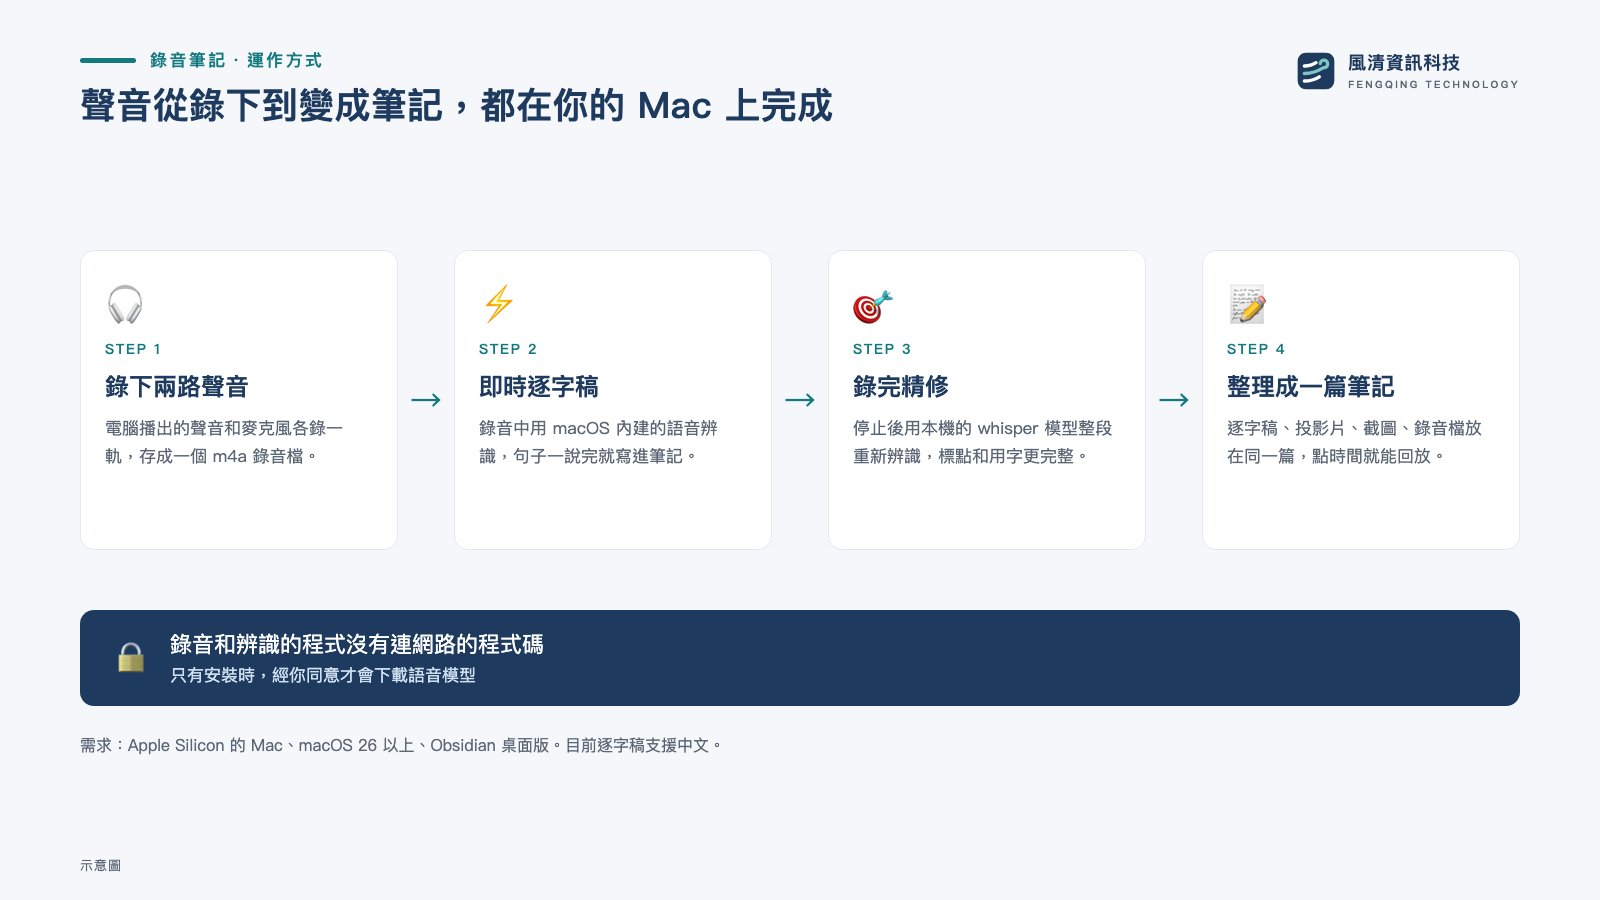
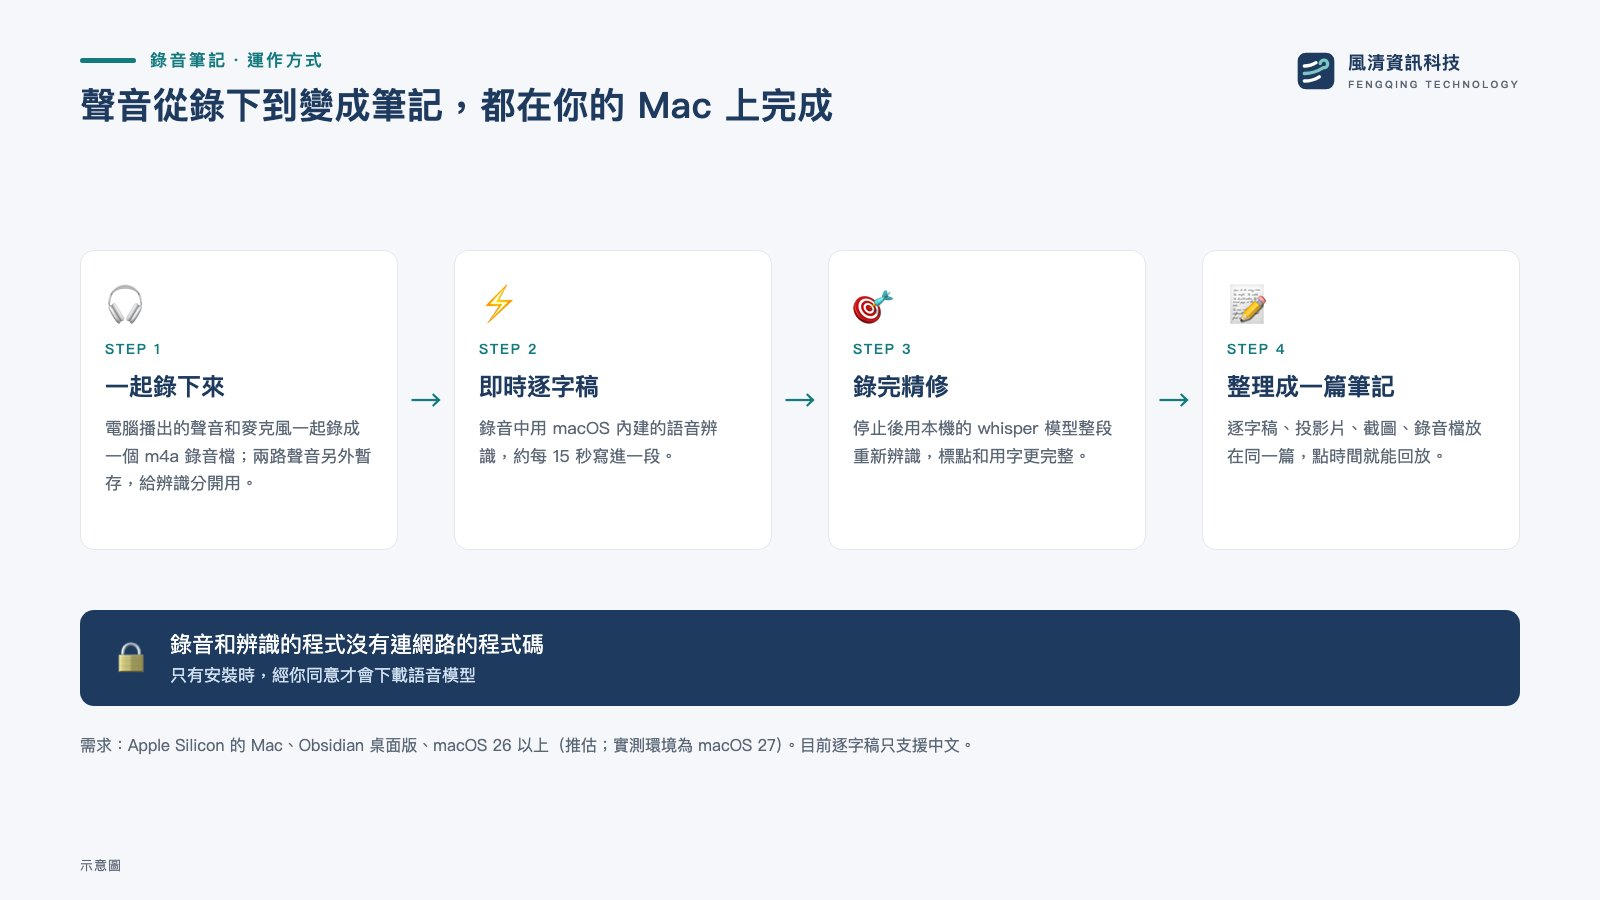
README: mention the community directory submission and update illustrations
- Installing from the community directory or from this repository both require running install.sh once.
- Corrected the workflow illustration (one mixed m4a file; live transcript about every 15 seconds) and the recording-in-progress screenshot.

diff --git a/README.md b/README.md
@@ -86,7 +86,7 @@ zsh install.sh
 
 裝完重新啟動 Obsidian，左側會出現麥克風按鈕。第一次使用要依序允許 Obsidian 的麥克風、系統錄音、語音辨識權限；要錄 App 畫面再允許螢幕錄製。
 
-這不是 Obsidian 社群外掛目錄裡的外掛。它需要在本機編譯一支錄音程式，所以只能這樣安裝。
+外掛已送審 Obsidian 社群外掛目錄。不管是從目錄裝外掛，還是用上面的方式安裝，都要在終端機執行一次 `install.sh`：它會在本機編譯錄音程式，外掛靠這支程式錄音。
 
 ## 已知限制
 
